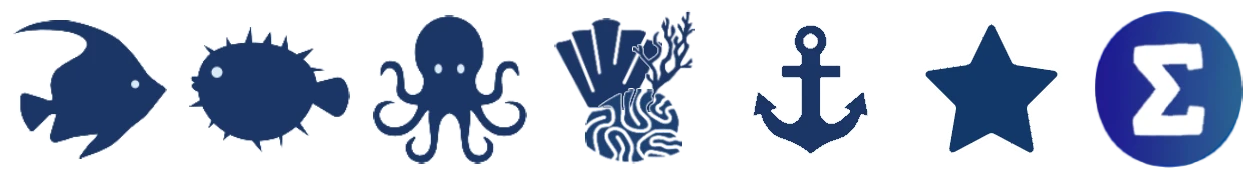
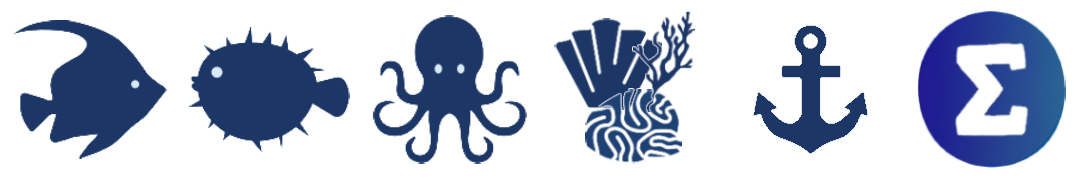
Make expert difficulty default in Solo

diff --git a/modules/js/Game.js b/modules/js/Game.js
@@ -743,7 +743,7 @@ class EndGameScoringHandler {
         this.game = game;
         this.bodyClickHandler = null;
         this.delayAfterFadeIns = 10000;
-        this.scoringRowNames = ['bannerfish', 'pufferfish', 'octopus', 'corals', 'anchor', 'soloDifficultyPenalty', 'soloDifficultyBonus', 'totalScore'];
+        this.scoringRowNames = ['bannerfish', 'pufferfish', 'octopus', 'corals', 'anchor', 'soloDifficultyPenalty', 'totalScore'];
     }
     async displayEndGameScore(endGameScoring) {
         this.endGameScoring = endGameScoring;
@@ -819,14 +819,13 @@ class EndGameScoringHandler {
             corals: _('Corals'),
             anchor: _('Anchor penalty'),
             soloDifficultyPenalty: _('Point penalty for each face-down card remaining in your row'),
-            soloDifficultyBonus: _('On BGA, you get +5 point bonus for playing in expert difficulty'),
             totalScore: _('Total Score'),
         };
         // Add score rows
         for (let i = 0; i < this.scoringRowNames.length; i++) {
             const row = document.createElement('tr');
             const scoreType = this.scoringRowNames[i];
-            if ((scoreType == 'soloDifficultyPenalty' || scoreType == 'soloDifficultyBonus') && !(this.game.isSoloMode() && this.game.isSoloExpertDifficulty)) {
+            if (scoreType == 'soloDifficultyPenalty' && !this.game.isSoloMode()) {
                 continue;
             }
             const isSoloDifficultyPenalty = scoreType == 'soloDifficultyPenalty';
@@ -1518,7 +1517,6 @@ class Game {
     setup(gamedatas) {
         console.log("Starting game setup");
         this.gamedatas = gamedatas;
-        this.isSoloExpertDifficulty = gamedatas.isSoloExpertDifficulty;
         document.body.setAttribute('data-player-count', Object.keys(gamedatas.players).length.toString());
         this.backgroundHandler = new BackgroundHandler(this);
         this.bga.gameArea.getElement().insertAdjacentHTML('beforeend', `

diff --git a/src/scss/Game.scss b/src/scss/Game.scss
@@ -166,15 +166,14 @@ body.current_player_is_active:not(.lockedInterface){
                 *[row-index="8"]{ font-size: 18px; }
                 
                 &.score-type-icon-cell{ width: 72px; display: inline-block;
-                    .score-type-icon{ background-image: url("img/score_icons.webp"); background-size: 700% 100%; margin: auto; width: 42px; height: 42px; margin-top: -2px;
+                    .score-type-icon{ background-image: url("img/score_icons.webp"); background-size: 600% 100%; margin: auto; width: 42px; height: 42px; margin-top: -2px;
 						&[data-score-type="bannerfish"]{ background-position: 0% 0%; }
 						&[data-score-type="pufferfish"]{ background-position: -100% 0%; }
 						&[data-score-type="octopus"]{ background-position: -200% 0%; }
 						&[data-score-type="corals"]{ background-position: -300% 0%; }
 						&[data-score-type="anchor"]{ background-position: -400% 0%; }
                         &[data-score-type="soloDifficultyPenalty"]{ background-image: none; --card-width: 16px; width: var(--card-width); height: calc(var(--card-width) * 2); margin-top: 2px; }
-                        &[data-score-type="soloDifficultyBonus"]{ background-position: -500% 0%; }
-						&[data-score-type="totalScore"]{ background-position: -600% 0%; }
+						&[data-score-type="totalScore"]{ background-position: -500% 0%; }
                     }
                 }
                 .cell-total{ font-size: 24px; transition: opacity 0.2s ease; }

diff --git a/src/ts/EndGameScoringHandler.ts b/src/ts/EndGameScoringHandler.ts
@@ -13,7 +13,7 @@ export class EndGameScoringHandler{
     private bodyClickHandler = null;
     private winner_ids: number[];
     private delayAfterFadeIns = 10000;
-    private scoringRowNames = ['bannerfish', 'pufferfish', 'octopus', 'corals', 'anchor', 'soloDifficultyPenalty', 'soloDifficultyBonus', 'totalScore'];
+    private scoringRowNames = ['bannerfish', 'pufferfish', 'octopus', 'corals', 'anchor', 'soloDifficultyPenalty', 'totalScore'];
     
 	constructor(private game: Game) { }
 
@@ -109,7 +109,6 @@ export class EndGameScoringHandler{
             corals: _('Corals'),
             anchor: _('Anchor penalty'),
             soloDifficultyPenalty: _('Point penalty for each face-down card remaining in your row'),
-            soloDifficultyBonus: _('On BGA, you get +5 point bonus for playing in expert difficulty'),
             totalScore: _('Total Score'),
         };
 
@@ -118,7 +117,7 @@ export class EndGameScoringHandler{
             const row = document.createElement('tr');
             const scoreType = this.scoringRowNames[i];
 
-            if((scoreType == 'soloDifficultyPenalty' || scoreType == 'soloDifficultyBonus') && !(this.game.isSoloMode() && this.game.isSoloExpertDifficulty)){
+            if(scoreType == 'soloDifficultyPenalty' && !this.game.isSoloMode()){
                 continue;
             }
             const isSoloDifficultyPenalty = scoreType == 'soloDifficultyPenalty';

diff --git a/fugu.css b/fugu.css
@@ -691,7 +691,7 @@ body.current_player_is_active:not(.lockedInterface).mobile_version .a-hand-conta
 }
 .end-game-score-container table tbody td.score-type-icon-cell .score-type-icon {
   background-image: url("img/score_icons.webp");
-  background-size: 700% 100%;
+  background-size: 600% 100%;
   margin: auto;
   width: 42px;
   height: 42px;
@@ -719,11 +719,8 @@ body.current_player_is_active:not(.lockedInterface).mobile_version .a-hand-conta
   height: calc(var(--card-width) * 2);
   margin-top: 2px;
 }
-.end-game-score-container table tbody td.score-type-icon-cell .score-type-icon[data-score-type=soloDifficultyBonus] {
-  background-position: -500% 0%;
-}
 .end-game-score-container table tbody td.score-type-icon-cell .score-type-icon[data-score-type=totalScore] {
-  background-position: -600% 0%;
+  background-position: -500% 0%;
 }
 .end-game-score-container table tbody td .cell-total {
   font-size: 24px;

diff --git a/src/ts/Game.ts b/src/ts/Game.ts
@@ -17,7 +17,6 @@ export class Game {
     public players: Record<number, PlayerHandler> = {};
     private myPlayerID: number;
     private localCardIDCounter = 1;
-    public isSoloExpertDifficulty: boolean;
     private autoClickTimeouts: Record<string, ReturnType<typeof setTimeout>[]> = {};
     private autoClickIncrement: number = 1;
     
@@ -64,7 +63,6 @@ export class Game {
         console.log( "Starting game setup" );
         this.gamedatas = gamedatas;
 
-        this.isSoloExpertDifficulty = gamedatas.isSoloExpertDifficulty;
         document.body.setAttribute('data-player-count', Object.keys(gamedatas.players).length.toString());
 
         this.backgroundHandler = new BackgroundHandler(this);

diff --git a/src/ts/types.d.ts b/src/ts/types.d.ts
@@ -12,7 +12,6 @@ interface FuguGamedatas extends Gamedatas<FuguPlayer> {
     cardsInHands: Record<number, CardInHand[]>;
     endGameScoring: EndGameScoreData;
     deckLength: number;
-    isSoloExpertDifficulty: boolean;
     pref_names: GamePrefs;
     discardedCards: CardInDiscard[];
     anchoredCards: CardInDiscard[];
@@ -79,7 +78,6 @@ interface PlayerScore{
 
 interface SoloPlayerScore extends PlayerScore{
     soloDifficultyPenalty: number;
-    soloDifficultyBonus: number;
 }
 
 type CardStateInHand = 'facedown' | 'number' | 'anchor';

diff --git a/modules/php/Game.php b/modules/php/Game.php
@@ -143,7 +143,6 @@ class Game extends \Bga\GameFramework\Table
         $result['deckLength'] = DECK_LENGTHS[count($result["players"])]; 
         $result['pref_names'] = $this->userPrefs;
 
-        $result['isSoloExpertDifficulty'] = $this->isSoloExpertDifficulty(); 
         $result['discardedCards'] = $this->getObjectListFromDB("SELECT * FROM `cards` WHERE `card_location` = 'returned_to_box' ORDER BY `rank` ASC");
         $result['anchoredCards'] = $this->getObjectListFromDB("SELECT * FROM `cards` WHERE `card_location` = 'player' AND `state_in_hand` = 'anchor' ORDER BY `rank` ASC");
 
@@ -196,12 +195,6 @@ class Game extends \Bga\GameFramework\Table
         //
         // NOTE: statistics used in this file must be defined in your `stats.inc.php` file.
 
-        // Dummy content.
-        // $this->tableStats->init('table_teststat1', 0);
-        // $this->playerStats->init('player_teststat1', 0);
-
-        $this->tableStats->init('isExpertDifficulty', $this->isSoloExpertDifficulty());
-
         //Setup the initial game situation 
         //create cards Deck object
 
@@ -216,8 +209,8 @@ class Game extends \Bga\GameFramework\Table
 
         $this->tableManager->shuffleAndDealCards();
 
-        if($this->isSoloExpertDifficulty())
-            $this->updatePlayerScore(array_keys($players)[0]); //in expert mode, start with soloDifficultyPenalty
+        if($this->isSoloMode())
+            $this->updatePlayerScore(array_keys($players)[0]); //in solo mode, start with soloDifficultyPenalty
 
         // Activate first player once everything has been initialized and ready.
         $this->activeNextPlayer();
@@ -256,10 +249,6 @@ class Game extends \Bga\GameFramework\Table
 
     public function isSoloMode(): bool{ return $this->getPlayersNumber() === 1; }
 
-    public function isSoloExpertDifficulty(): bool{
-        return $this->isSoloMode() && $this->tableOptions->get(SOLO_DIFFICULTY_OPTION) === SOLO_DIFFICULTY_EXPERT;
-    }
-
     //end utility functions
 
     /**
@@ -271,7 +260,7 @@ class Game extends \Bga\GameFramework\Table
      * satisfy, since their suit isn't showing).
      *
      * @param int $playerID
-     * @return array{total: int, bannerfish: int, pufferfish: int, octopus: int, corals: int, coralCounts: array{pinkCount: int, greenCount: int, yellowCount: int}, anchor: int, soloDifficultyPenalty: int, soloDifficultyBonus: int}
+     * @return array{total: int, bannerfish: int, pufferfish: int, octopus: int, corals: int, coralCounts: array{pinkCount: int, greenCount: int, yellowCount: int}, anchor: int, soloDifficultyPenalty: int}
      */
     public function getPlayerScore($playerID): array
     {
@@ -372,11 +361,10 @@ class Game extends \Bga\GameFramework\Table
         $anchorScoringFn = ANCHOR_SCORING;
         $anchorScore = (int) $anchorScoringFn($anchorCount);
 
-        // --- SOLO DIFFICULTY: expert solo games penalize unplayed (face-down) cards, but grant a flat bonus for playing on expert ---
-        $soloDifficultyPenalty = $this->isSoloExpertDifficulty() ? -1 * $facedownCount * SOLO_DIFFICULTY_FACEDOWN_PENALTY : 0;
-        $soloDifficultyBonus = $this->isSoloExpertDifficulty() ? SOLO_EXPERT_DIFFICULTY_BONUS : 0;
+        // --- SOLO DIFFICULTY: solo games penalize unplayed (face-down) cards
+        $soloDifficultyPenalty = $this->isSoloMode() ? -1 * $facedownCount * SOLO_DIFFICULTY_FACEDOWN_PENALTY : 0;
 
-        $totalScore = $bannerfishScore + $pufferfishScore + $octopusScore + $coralScore + $anchorScore + $soloDifficultyPenalty + $soloDifficultyBonus;
+        $totalScore = $bannerfishScore + $pufferfishScore + $octopusScore + $coralScore + $anchorScore + $soloDifficultyPenalty;
         
         return [
             'totalScore' => $totalScore,
@@ -392,7 +380,6 @@ class Game extends \Bga\GameFramework\Table
             'anchor' => $anchorScore,
             'anchorCount' => $anchorCount,
             'soloDifficultyPenalty' => $soloDifficultyPenalty,
-            'soloDifficultyBonus' => $soloDifficultyBonus,
         ];
     }
     private function scoreBannerfishRun(int $length): int { return ($length <= 0) ? 0 : BANNERFISH_SCORING_TABLE[min($length, count(BANNERFISH_SCORING_TABLE) - 1)]; }

diff --git a/modules/php/material.inc.php b/modules/php/material.inc.php
@@ -32,10 +32,8 @@ if (!defined('DECK_LENGTH_2_PLAYERS')) { // guard since this included multiple t
 
     define("SOLO_DIFFICULTY_OPTION", 100);
     define("SOLO_DIFFICULTY_STANDARD", 1);
-    define("SOLO_DIFFICULTY_EXPERT", 2);
-    define("SOLO_DIFFICULTY_FACEDOWN_PENALTY", 1); //expert solo: lose 1 point per face-down card remaining in your row
-    define("SOLO_EXPERT_DIFFICULTY_BONUS", 5); //expert solo: gain 5 points for playing the expert mode of solo
-    define("SOLO_DIFFICULTY_RANK_THRESHOLD", 20); //solo: revealed rank below this discards the lower-numbered center card, at/above discards the higher-numbered one
+    define("SOLO_DIFFICULTY_FACEDOWN_PENALTY", 1); //solo: lose 1 point per face-down card remaining in your row
+    define("SOLO_COMPARE_THRESHOLD", 20); //solo: revealed rank below this discards the lower-numbered center card, at/above discards the higher-numbered one
 
     define("CARD_NUM_TO_CARD_TYPE", [
         1 => "coral_pink",

diff --git a/modules/php/States/PlayerTurn.php b/modules/php/States/PlayerTurn.php
@@ -174,7 +174,7 @@ class PlayerTurn extends GameState
 
         $otherCenterCards = $this->game->getObjectListFromDB("SELECT * FROM `cards` WHERE `card_location` = 'center' AND `card_location_arg` <> $centerCardLocation ORDER BY `rank` ASC;");
 
-        if ($handCardRank < SOLO_DIFFICULTY_RANK_THRESHOLD) {
+        if ($handCardRank < SOLO_COMPARE_THRESHOLD) {
             $cardToDiscard = $otherCenterCards[0]['rank'] < $otherCenterCards[1]['rank'] ? $otherCenterCards[0] : $otherCenterCards[1];
         } else {
             $cardToDiscard = $otherCenterCards[0]['rank'] > $otherCenterCards[1]['rank'] ? $otherCenterCards[0] : $otherCenterCards[1];

diff --git a/modules/php/States/NextPlayer.php b/modules/php/States/NextPlayer.php
@@ -94,7 +94,5 @@ class NextPlayer extends \Bga\GameFramework\States\GameState
             $totalFacedown += $facedownCount;
         }
         $this->game->tableStats->set('facedownCardPerPlayer', $totalFacedown / $playerCount);
-
-        $this->game->tableStats->set('isExpertDifficulty', $this->game->isSoloExpertDifficulty() ? 1 : 0);
     }
 }
